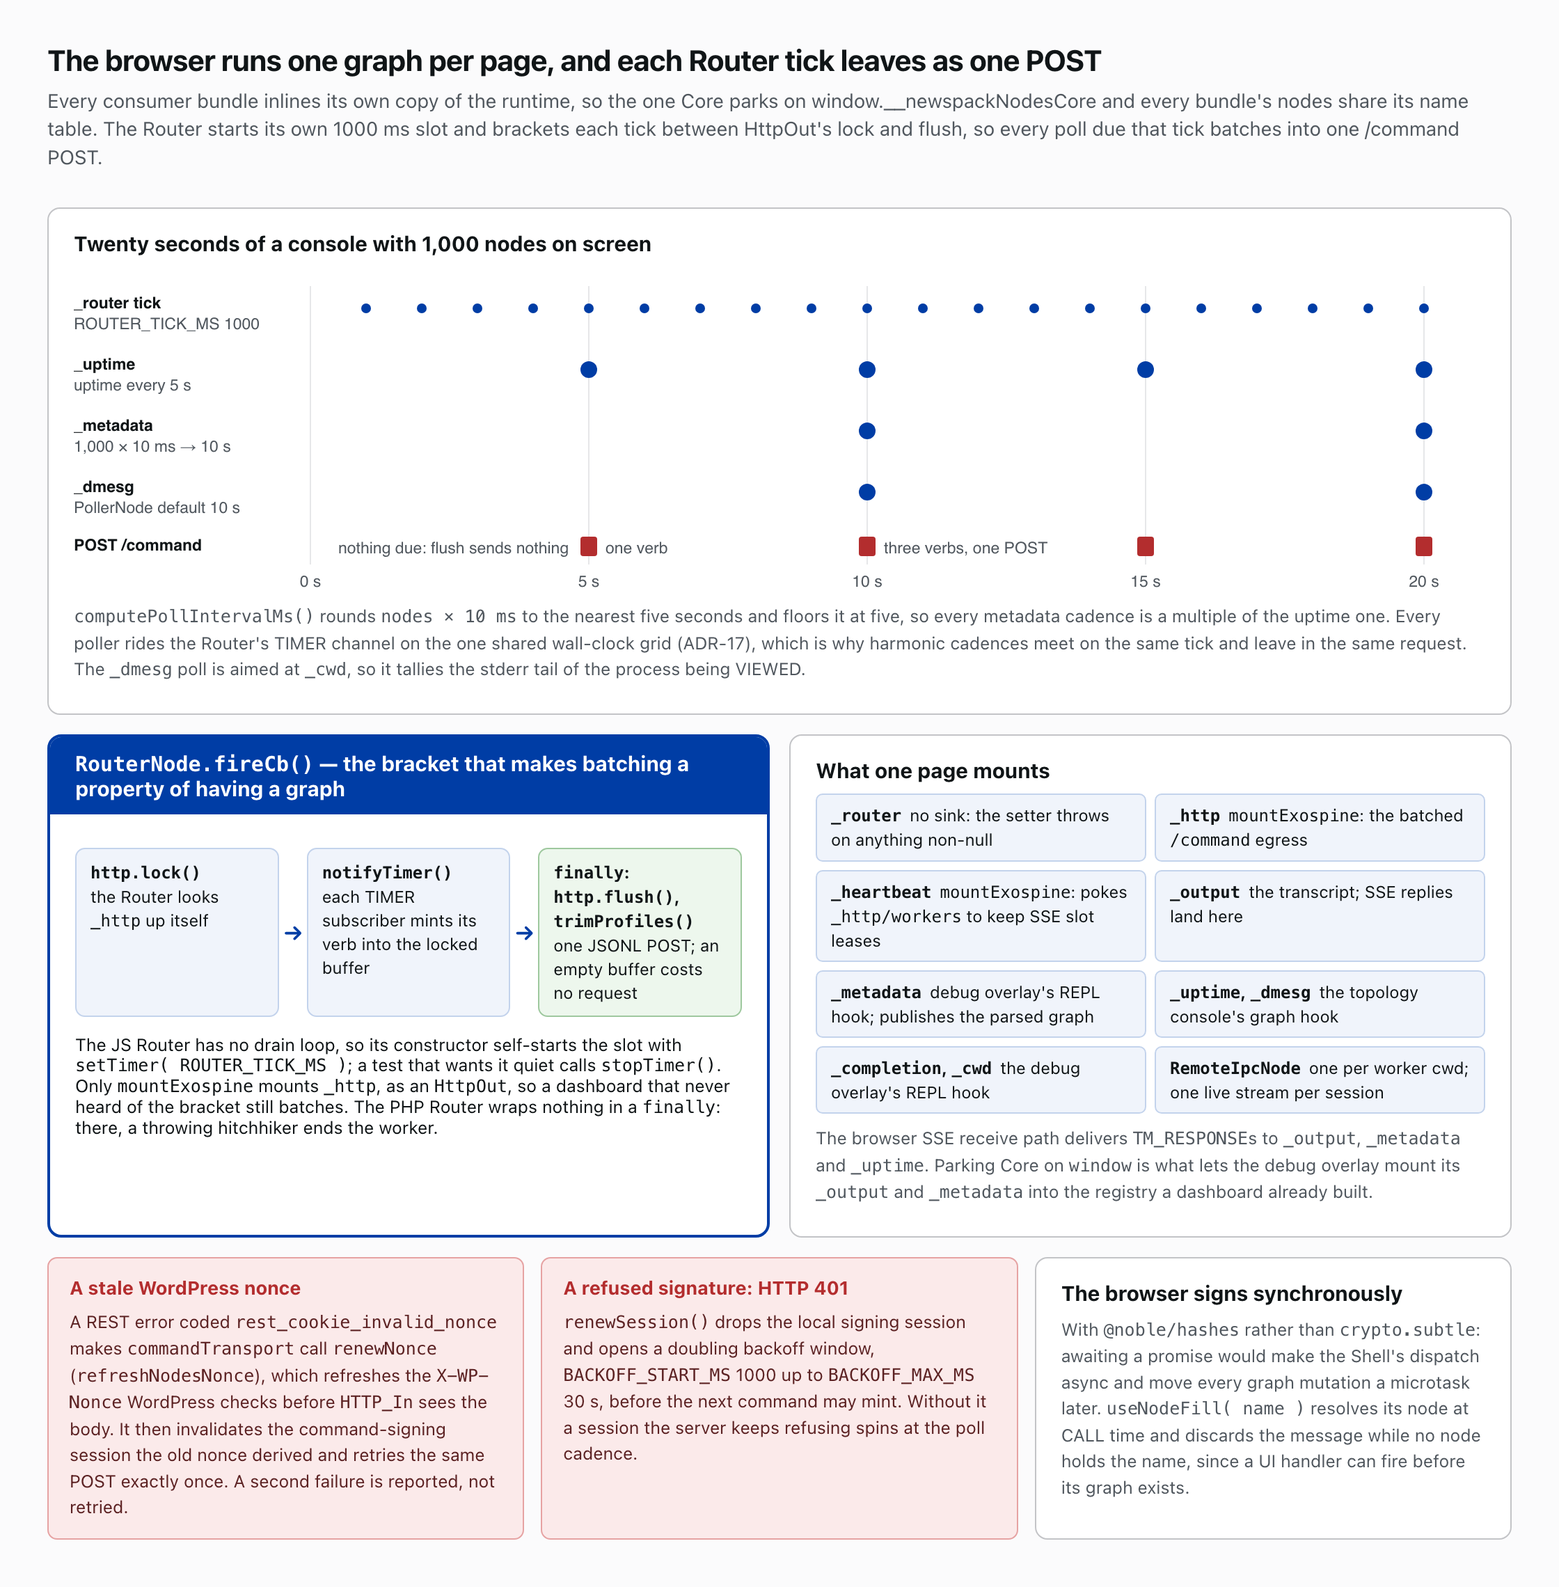
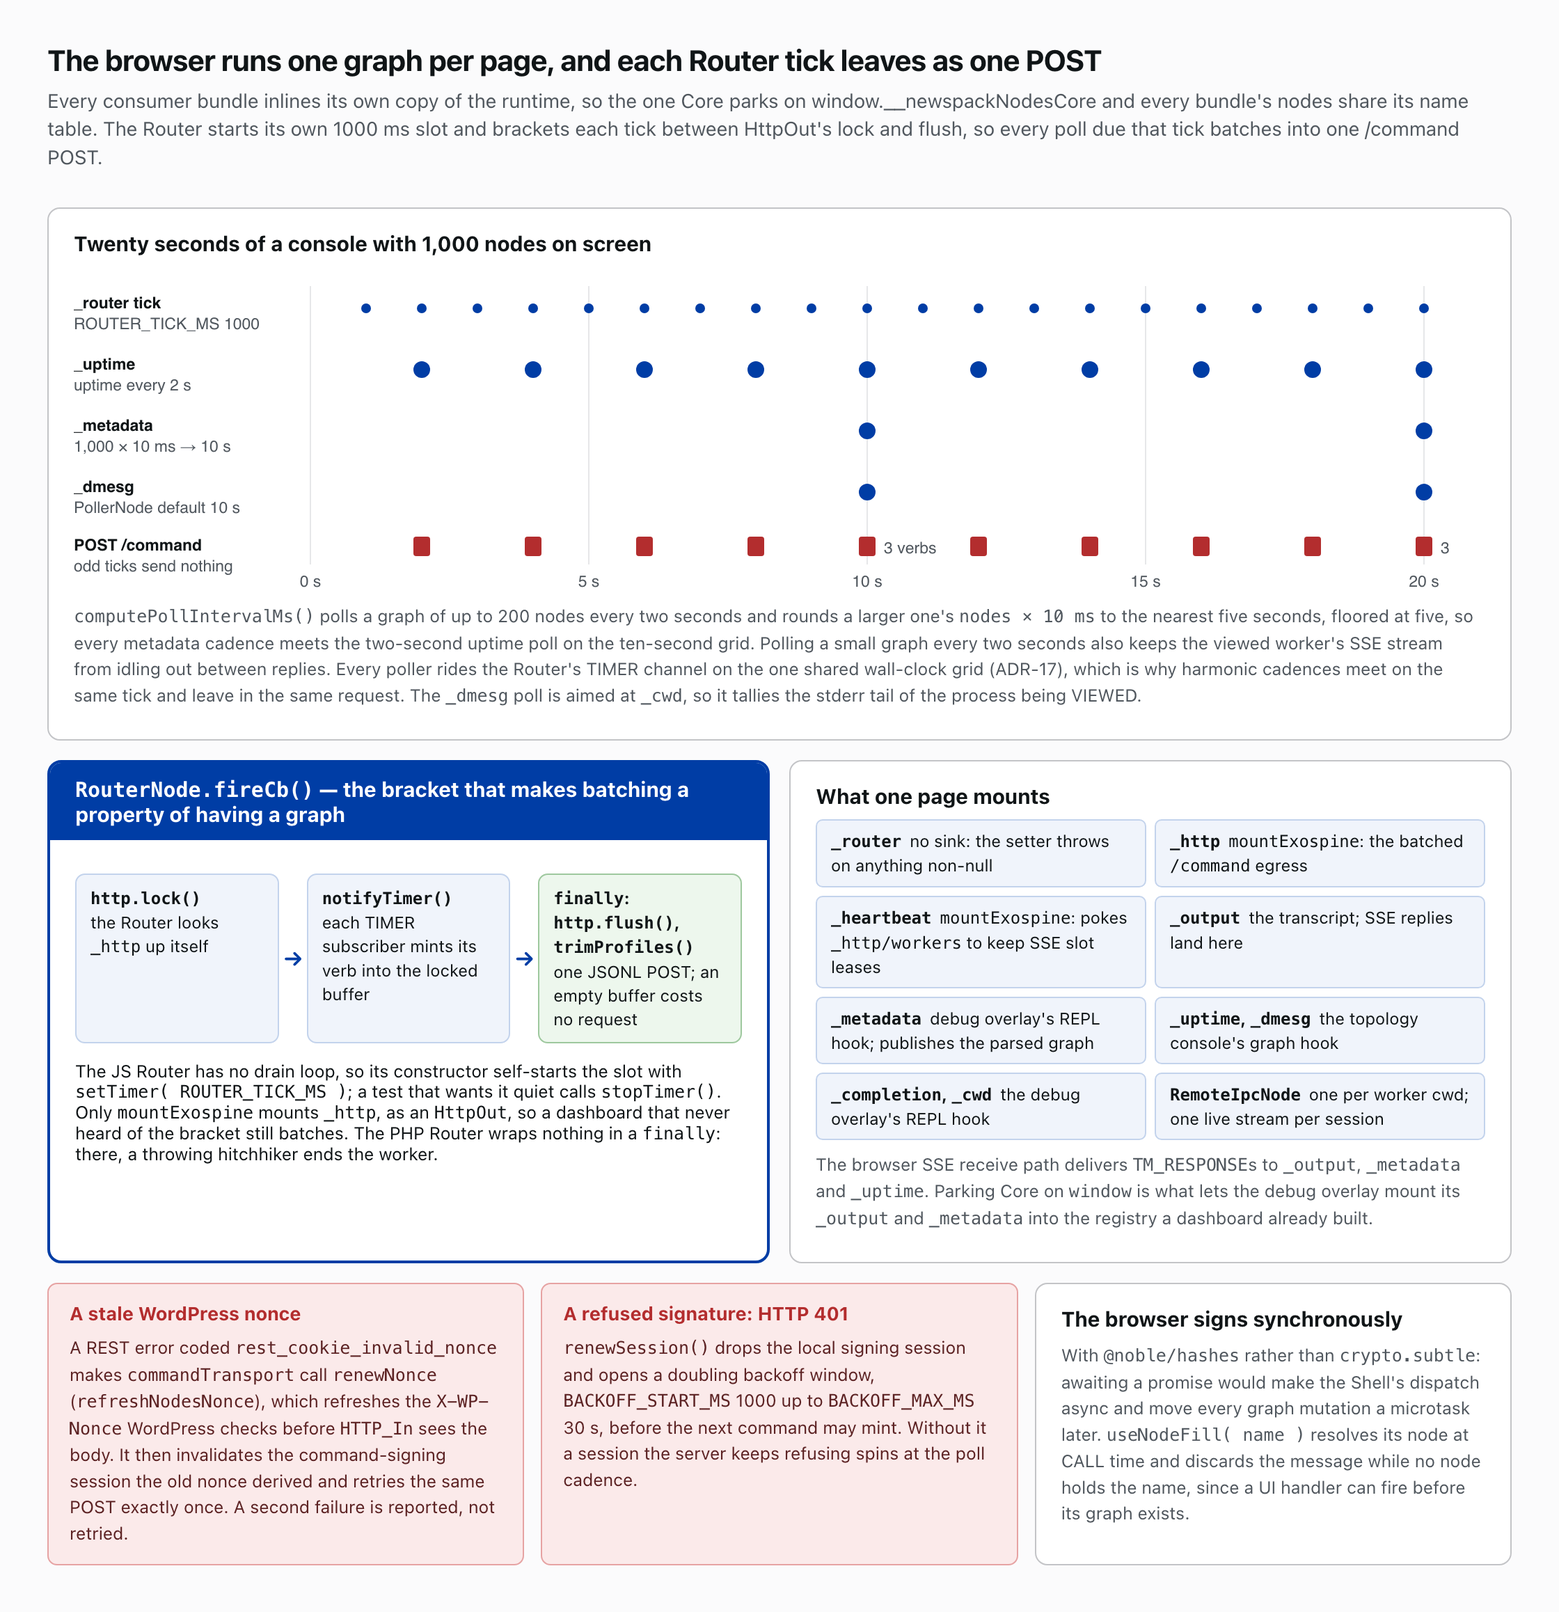
feat: poll a small worker graph and uptime every 2 seconds
A viewed worker's SSE stream idles out after sse_idle_timeout (5s), so
the console's 5-second dump_metadata and uptime polls let it close
between replies. 2s keeps a live view's stream open, and stays on the
shared 10-second grid; a graph past 200 nodes still backs off.

diff --git a/docs/img/ag-browser-tick.html b/docs/img/ag-browser-tick.html
@@ -27,18 +27,18 @@
     <g text-anchor="middle"><text x="170" y="230">0 s</text><text x="370" y="230">5 s</text><text x="570" y="230">10 s</text><text x="770" y="230">15 s</text><text x="970" y="230">20 s</text></g>
     <text class="h" x="0" y="30">_router tick</text><text x="0" y="45">ROUTER_TICK_MS 1000</text>
     <g fill="#003DA5"><circle cx="210" cy="30" r="3.5"/><circle cx="250" cy="30" r="3.5"/><circle cx="290" cy="30" r="3.5"/><circle cx="330" cy="30" r="3.5"/><circle cx="370" cy="30" r="3.5"/><circle cx="410" cy="30" r="3.5"/><circle cx="450" cy="30" r="3.5"/><circle cx="490" cy="30" r="3.5"/><circle cx="530" cy="30" r="3.5"/><circle cx="570" cy="30" r="3.5"/><circle cx="610" cy="30" r="3.5"/><circle cx="650" cy="30" r="3.5"/><circle cx="690" cy="30" r="3.5"/><circle cx="730" cy="30" r="3.5"/><circle cx="770" cy="30" r="3.5"/><circle cx="810" cy="30" r="3.5"/><circle cx="850" cy="30" r="3.5"/><circle cx="890" cy="30" r="3.5"/><circle cx="930" cy="30" r="3.5"/><circle cx="970" cy="30" r="3.5"/></g>
-    <text class="h" x="0" y="74">_uptime</text><text x="0" y="89">uptime every 5 s</text>
-    <g fill="#003DA5"><circle cx="370" cy="74" r="6"/><circle cx="570" cy="74" r="6"/><circle cx="770" cy="74" r="6"/><circle cx="970" cy="74" r="6"/></g>
+    <text class="h" x="0" y="74">_uptime</text><text x="0" y="89">uptime every 2 s</text>
+    <g fill="#003DA5"><circle cx="250" cy="74" r="6"/><circle cx="330" cy="74" r="6"/><circle cx="410" cy="74" r="6"/><circle cx="490" cy="74" r="6"/><circle cx="570" cy="74" r="6"/><circle cx="650" cy="74" r="6"/><circle cx="730" cy="74" r="6"/><circle cx="810" cy="74" r="6"/><circle cx="890" cy="74" r="6"/><circle cx="970" cy="74" r="6"/></g>
     <text class="h" x="0" y="118">_metadata</text><text x="0" y="133">1,000 × 10 ms → 10 s</text>
     <g fill="#003DA5"><circle cx="570" cy="118" r="6"/><circle cx="970" cy="118" r="6"/></g>
     <text class="h" x="0" y="162">_dmesg</text><text x="0" y="177">PollerNode default 10 s</text>
     <g fill="#003DA5"><circle cx="570" cy="162" r="6"/><circle cx="970" cy="162" r="6"/></g>
     <text class="h" x="0" y="204">POST /command</text>
-    <g fill="#B32D2E"><rect x="364" y="194" width="12" height="14" rx="2"/><rect x="564" y="194" width="12" height="14" rx="2"/><rect x="764" y="194" width="12" height="14" rx="2"/><rect x="964" y="194" width="12" height="14" rx="2"/></g>
-    <text x="582" y="206">three verbs, one POST</text><text x="382" y="206">one verb</text>
-    <text x="190" y="206">nothing due: flush sends nothing</text>
+    <g fill="#B32D2E"><rect x="244" y="194" width="12" height="14" rx="2"/><rect x="324" y="194" width="12" height="14" rx="2"/><rect x="404" y="194" width="12" height="14" rx="2"/><rect x="484" y="194" width="12" height="14" rx="2"/><rect x="564" y="194" width="12" height="14" rx="2"/><rect x="644" y="194" width="12" height="14" rx="2"/><rect x="724" y="194" width="12" height="14" rx="2"/><rect x="804" y="194" width="12" height="14" rx="2"/><rect x="884" y="194" width="12" height="14" rx="2"/><rect x="964" y="194" width="12" height="14" rx="2"/></g>
+    <text x="0" y="219">odd ticks send nothing</text>
+    <text x="582" y="206">3 verbs</text><text x="982" y="206">3</text>
   </svg>
-  <p style="font-size:12.5px"><span class="mono">computePollIntervalMs()</span> rounds <span class="mono">nodes × 10 ms</span> to the nearest five seconds and floors it at five, so every metadata cadence is a multiple of the uptime one. Every poller rides the Router's TIMER channel on the one shared wall-clock grid (ADR-17), which is why harmonic cadences meet on the same tick and leave in the same request. The <span class="mono">_dmesg</span> poll is aimed at <span class="mono">_cwd</span>, so it tallies the stderr tail of the process being VIEWED.</p>
+  <p style="font-size:12.5px"><span class="mono">computePollIntervalMs()</span> polls a graph of up to 200 nodes every two seconds and rounds a larger one's <span class="mono">nodes × 10 ms</span> to the nearest five seconds, floored at five, so every metadata cadence meets the two-second uptime poll on the ten-second grid. Polling a small graph every two seconds also keeps the viewed worker's SSE stream from idling out between replies. Every poller rides the Router's TIMER channel on the one shared wall-clock grid (ADR-17), which is why harmonic cadences meet on the same tick and leave in the same request. The <span class="mono">_dmesg</span> poll is aimed at <span class="mono">_cwd</span>, so it tallies the stderr tail of the process being VIEWED.</p>
 </div>
 
 <div class="two">

diff --git a/src/runtime/__tests__/poller-node.test.js b/src/runtime/__tests__/poller-node.test.js
@@ -249,6 +249,10 @@ describe( 'DmesgNode', () => {
 } );
 
 describe( 'UptimeNode', () => {
+	it( 'polls every 2s, on the shared grid', () => {
+		expect( new UptimeNode().pollIntervalMs ).toBe( 2000 );
+	} );
+
 	it( 'keeps the right half of a bytestream uptime line', () => {
 		const node = new UptimeNode();
 		node.fill( msg( TM_BYTESTREAM, '09:44:52  up 0 days, 00:01:00\n' ) );
@@ -292,7 +296,7 @@ describe( 'UptimeNode', () => {
 		expect( node.counter ).toBe( 2 );
 	} );
 
-	describe( 'fire() poll emission (5s throttle)', () => {
+	describe( 'fire() poll emission (2s throttle)', () => {
 		afterEach( () => {
 			Core.reset();
 			jest.restoreAllMocks();
@@ -330,9 +334,9 @@ describe( 'UptimeNode', () => {
 		} );
 
 		// The cadence is a wall-clock GRID (see `nextBoundary`), so the
-		// guarantee is one emit per 5s period — not 5s between any two emits.
+		// guarantee is one emit per 2s period — not 2s between any two emits.
 		// The first period after arming is the short remainder of the one the
-		// timer opened in, which is what converges every 5s poll onto one tick.
+		// timer opened in, which is what converges every 2s poll onto one tick.
 		it( 'throttles: ticks inside one period emit once', () => {
 			const nowSpy = jest.spyOn( Core, 'now' );
 			const { node, sent } = build( { armed: true } );
@@ -341,7 +345,7 @@ describe( 'UptimeNode', () => {
 			nowSpy.mockReturnValue( 100 );
 			node.fireCb();
 			const emitted = sent.length;
-			for ( let t = 100.5; t < 105; t += 0.5 ) {
+			for ( let t = 100.5; t < 102; t += 0.5 ) {
 				nowSpy.mockReturnValue( t );
 				node.fireCb();
 			}
@@ -356,7 +360,7 @@ describe( 'UptimeNode', () => {
 			nowSpy.mockReturnValue( 100 );
 			node.fireCb();
 			sent.length = 0;
-			for ( let t = 101; t <= 120; t++ ) {
+			for ( let t = 101; t <= 108; t++ ) {
 				nowSpy.mockReturnValue( t );
 				node.fireCb();
 			}

diff --git a/src/runtime/__tests__/metadata-node.test.js b/src/runtime/__tests__/metadata-node.test.js
@@ -178,15 +178,16 @@ describe( 'Metadata node', () => {
 	} );
 
 	describe( 'computePollIntervalMs (nodeCount * 10ms, rounded)', () => {
-		it( 'floors at 5s (anything up to ~5s of computed cadence)', () => {
-			expect( computePollIntervalMs( 0 ) ).toBe( 5000 );
-			expect( computePollIntervalMs( 30 ) ).toBe( 5000 ); // 0.3s -> floor 5s
-			expect( computePollIntervalMs( 100 ) ).toBe( 5000 ); // 1.0s -> floor 5s
-			expect( computePollIntervalMs( 250 ) ).toBe( 5000 ); // 2.5s -> floor 5s
-			expect( computePollIntervalMs( 500 ) ).toBe( 5000 ); // 5.0s
+		it( 'polls a graph of 200 nodes or fewer every 2s', () => {
+			expect( computePollIntervalMs( 0 ) ).toBe( 2000 );
+			expect( computePollIntervalMs( 30 ) ).toBe( 2000 ); // 0.3s
+			expect( computePollIntervalMs( 100 ) ).toBe( 2000 ); // 1.0s
+			expect( computePollIntervalMs( 200 ) ).toBe( 2000 ); // 2.0s
 		} );
 
-		it( 'rounds to the nearest 5 seconds once past 5s', () => {
+		it( 'rounds to the nearest 5 seconds past 2s, floored at 5s', () => {
+			expect( computePollIntervalMs( 250 ) ).toBe( 5000 ); // 2.5s -> 5s
+			expect( computePollIntervalMs( 500 ) ).toBe( 5000 ); // 5.0s
 			expect( computePollIntervalMs( 600 ) ).toBe( 5000 ); // 6s -> 5s
 			expect( computePollIntervalMs( 800 ) ).toBe( 10000 ); // 8s -> 10s
 			expect( computePollIntervalMs( 3000 ) ).toBe( 30000 ); // 30s

diff --git a/src/runtime/metadata-node.js b/src/runtime/metadata-node.js
@@ -271,17 +271,20 @@ export function parseMetadata( payload ) {
 
 /**
  * Self-managed poll cadence for `_metadata`, scaled to graph size: a big graph
- * is expensive to dump + re-render, so back off. `nodeCount * 10`ms, rounded to
- * the nearest 5 seconds and floored at 5s.
+ * is expensive to dump + re-render, so back off. `nodeCount * 10`ms: 2s up to
+ * two seconds of it, which keeps a quiet worker's SSE stream from idling out
+ * between polls; past that the nearest 5 seconds, floored at 5s. Both are
+ * harmonics of the shared 10s grid (ADR-17).
  *
  * @param {number} nodeCount Node count of the last parsed graph.
- * @return {number} Poll interval in milliseconds (>= 5000).
+ * @return {number} Poll interval in milliseconds (>= 2000).
  */
 export function computePollIntervalMs( nodeCount ) {
 	const seconds = ( nodeCount * 10 ) / 1000;
-	const rounded =
-		seconds > 5 ? Math.round( seconds / 5 ) * 5 : Math.round( seconds );
-	return Math.max( 5, rounded ) * 1000;
+	if ( seconds <= 2 ) {
+		return 2000;
+	}
+	return Math.max( 5, Math.round( seconds / 5 ) * 5 ) * 1000;
 }
 
 /**

diff --git a/src/runtime/uptime-node.js b/src/runtime/uptime-node.js
@@ -9,12 +9,12 @@ import { PollerNode } from './poller-node';
 
 /**
  * Cadence in milliseconds. The reading is a running clock, so the base
- * poller's 10s leaves it visibly behind. 5s is a harmonic of the same grid
- * (ADR-17) — every second 5s boundary is a 10s one — so the faster poll still
- * meets the slower ones on a tick and leaves in their POST, where an
- * off-harmonic cadence would buy a request of its own.
+ * poller's 10s leaves it visibly behind, and a poll this often also keeps the
+ * viewed worker's SSE stream from idling out. 2s is a harmonic of the same
+ * grid (ADR-17), so it still meets the slower polls on a tick and leaves in
+ * their POST, where an off-harmonic cadence would buy a request of its own.
  */
-const UPTIME_INTERVAL_MS = 5000;
+const UPTIME_INTERVAL_MS = 2000;
 
 /**
  * The `_uptime` node: poll `uptime` and publish the elapsed run

diff --git a/src/topology-console/hooks/useGraphRates.js b/src/topology-console/hooks/useGraphRates.js
@@ -2,8 +2,8 @@
  * Per-node message and byte rates for the topology console's sparklines.
  *
  * `dump_metadata` reports CUMULATIVE counters, on a cadence that scales with
- * graph size (`computePollIntervalMs`, floored at 5 seconds), so a rate exists
- * nowhere in a snapshot. This file keeps every node's previous reading and
+ * graph size (`computePollIntervalMs`, 2 seconds for a small graph), so a
+ * rate exists nowhere in a snapshot. This file keeps every node's previous reading and
  * divides each delta by the wall-clock time that actually elapsed, so a slower
  * poll on a large graph does not read as a busier node. The canvas cards, the
  * Inspector's Activity section and `aggregateSeries` all plot what it

diff --git a/src/topology-console/components/__tests__/Inspector.view.test.js b/src/topology-console/components/__tests__/Inspector.view.test.js
@@ -2452,9 +2452,9 @@ describe( 'Inspector (view mode)', () => {
 
 // Activity window = 60 samples × poll interval (scales), not a fixed ~60s.
 describe( 'formatActivityWindow', () => {
-	it( 'reads ~5m for a small graph (poll cadence floored at 5s)', () => {
-		// 50 nodes -> floored 5s poll -> 60 * 5s = 300s = 5m.
-		expect( formatActivityWindow( 50 ) ).toBe( 'last ~5m' );
+	it( 'reads ~2m for a small graph (polled every 2s)', () => {
+		// 50 nodes -> 2s poll -> 60 * 2s = 120s = 2m.
+		expect( formatActivityWindow( 50 ) ).toBe( 'last ~2m' );
 	} );
 
 	it( 'scales to minutes for a large graph polled less often', () => {

diff --git a/docs/architecture-guide.md b/docs/architecture-guide.md
@@ -247,7 +247,7 @@ The two reads that bracket a dispatch are bare `\microtime( true )`, deliberatel
 
 **The browser Router hitchhikes too, and batches.** `src/runtime/router-node.js` has no drain loop, so the Router starts its own one-second slot, and every emission a tick produces leaves in one POST.
 
-![Twenty seconds of a browser console: the Router ticks every second, _uptime polls every 5 s, and _metadata and _dmesg every 10 s for a 1,000-node graph, and each tick with something due leaves as exactly one /command POST because fireCb() brackets notifyTimer() between http.lock() and http.flush(). Beside it, the nodes one page mounts and who mounts them; beneath, the two refusal recoveries, a stale WordPress nonce retried once and a refused signature backing off from 1 s to 30 s, and why the browser signs synchronously.](img/ag-browser-tick.png)
+![Twenty seconds of a browser console: the Router ticks every second, _uptime polls every 2 s, and _metadata and _dmesg every 10 s for a 1,000-node graph, and each tick with something due leaves as exactly one /command POST because fireCb() brackets notifyTimer() between http.lock() and http.flush(). Beside it, the nodes one page mounts and who mounts them; beneath, the two refusal recoveries, a stale WordPress nonce retried once and a refused signature backing off from 1 s to 30 s, and why the browser signs synchronously.](img/ag-browser-tick.png)
 
 ## Storage: Topic + Partition
 
@@ -1062,7 +1062,7 @@ The accumulator is per PAGE, parked on `window.__newspackNodesIoTelemetry`, and 
 
 The Overview tab reads that accumulator two ways, on two cadences. Its cards do not read the 5-second ring at all: `useOverviewStats` runs a bare 50ms `setInterval` — no `useRouterTick` passenger and no graph node, so `list_timers` cannot see it — diffing the cumulative counters through a per-stream `RateSmoother` (a 10-second window plus an EMA), and it sits outside the graph for the reason the 5-second sampler does: it has to keep reading while the page's own graph is torn down, rebuilt, or never mounted. Only the two In/Out charts below stay on the sampled ring, re-rendered once per `IoTelemetry.revision` bump so the fast card tick never thrashes the redraw. `overviewChartSeries()` ([`src/debug-overlay/overviewChartSeries.js`](../src/debug-overlay/overviewChartSeries.js)) is what makes those charts the shared component rather than a second one: it reads each ring row as `[t, msgInRate, msgOutRate, byteInRate, byteOutRate]` and reshapes it into the same `{ [label]: { points, max, avg } }` model `topicChartSeries` builds for the event dashboards, over two labels and two panels, so both feed one `TopicsChart`. Its points carry no `weight` on purpose — `TopicsChart`'s default rate mode reads an absent weight as 1 and degrades to a plain per-bucket mean, which is what one fixed 5-second cadence wants. The tab's `Reset stats` button is the only production caller of `IoTelemetry.clear()`, and one click zeroes every cumulative counter and the classified-message ring AND removes the localStorage entry, so the persisted hour of chart history is not durable against an operator's own reset.
 
-**Per-node rates are derived, because `dump_metadata` reports CUMULATIVE counters.** `useGraphRates` keeps every node's previous reading and divides each delta by the wall-clock time that actually elapsed, so a slower poll on a large graph does not read as a busier node. Two rules keep that honest. A node's first reading carrying data is a BASELINE and is never plotted: the canvas paints a node before the poll backfills its counters, and reading that backfill as one interval's traffic plots the node's whole lifetime as a spike, which then sets the scale every real sample is drawn against. A negative delta clamps to zero, since that is what a worker respawn restarting its counters produces, and the `hasMessages` / `hasRead` / `hasWritten` flags are sticky for the same reason, so a respawn does not pull a row out of the Inspector. `aggregateSeries()` rolls any node set's histories into the four series a sparkline plots, summing them right-aligned at the most recent poll because a node starts recording only once its first data arrives; `in` and `out` are restricted to the scope's sources and sinks, so a message moving between two members is counted at neither edge and the sparkline cannot disagree with the header totals built the same way. The Activity window is not a fixed duration — it is `RATE_HISTORY_MAX` (60) samples times the current metadata poll interval, so it widens as a topology grows past the five-second floor. And the series is live per-node state rather than a record: a node that leaves the graph takes its history with it, and the scope then reads as though it always ran without that node.
+**Per-node rates are derived, because `dump_metadata` reports CUMULATIVE counters.** `useGraphRates` keeps every node's previous reading and divides each delta by the wall-clock time that actually elapsed, so a slower poll on a large graph does not read as a busier node. Two rules keep that honest. A node's first reading carrying data is a BASELINE and is never plotted: the canvas paints a node before the poll backfills its counters, and reading that backfill as one interval's traffic plots the node's whole lifetime as a spike, which then sets the scale every real sample is drawn against. A negative delta clamps to zero, since that is what a worker respawn restarting its counters produces, and the `hasMessages` / `hasRead` / `hasWritten` flags are sticky for the same reason, so a respawn does not pull a row out of the Inspector. `aggregateSeries()` rolls any node set's histories into the four series a sparkline plots, summing them right-aligned at the most recent poll because a node starts recording only once its first data arrives; `in` and `out` are restricted to the scope's sources and sinks, so a message moving between two members is counted at neither edge and the sparkline cannot disagree with the header totals built the same way. The Activity window is not a fixed duration — it is `RATE_HISTORY_MAX` (60) samples times the current metadata poll interval, so it widens as a topology grows past 200 nodes, where the poll leaves two seconds for five or more. And the series is live per-node state rather than a record: a node that leaves the graph takes its history with it, and the scope then reads as though it always ran without that node.
 
 ## Bootstrap Wiring (two lazy tiers)
 

diff --git a/CHANGELOG.md b/CHANGELOG.md
@@ -7,6 +7,15 @@ and this project adheres to [Semantic Versioning](https://semver.org/spec/v2.0.0
 
 ## [Unreleased]
 
+### Changed
+
+- **The console polls a small worker graph every 2 seconds rather than 5.**
+  `_metadata` polls a graph of up to 200 nodes every 2 seconds and scales
+  larger ones as before, and `_uptime` polls every 2 seconds. A viewed
+  worker's SSE stream idles out after `sse_idle_timeout` (5 seconds), so a
+  5-second poll let it close between replies; at 2 seconds a live view keeps
+  its stream open. Both cadences stay on the shared 10-second grid (ADR-17).
+
 ## [2.65.14] - 2026-09-23
 
 ### Added
